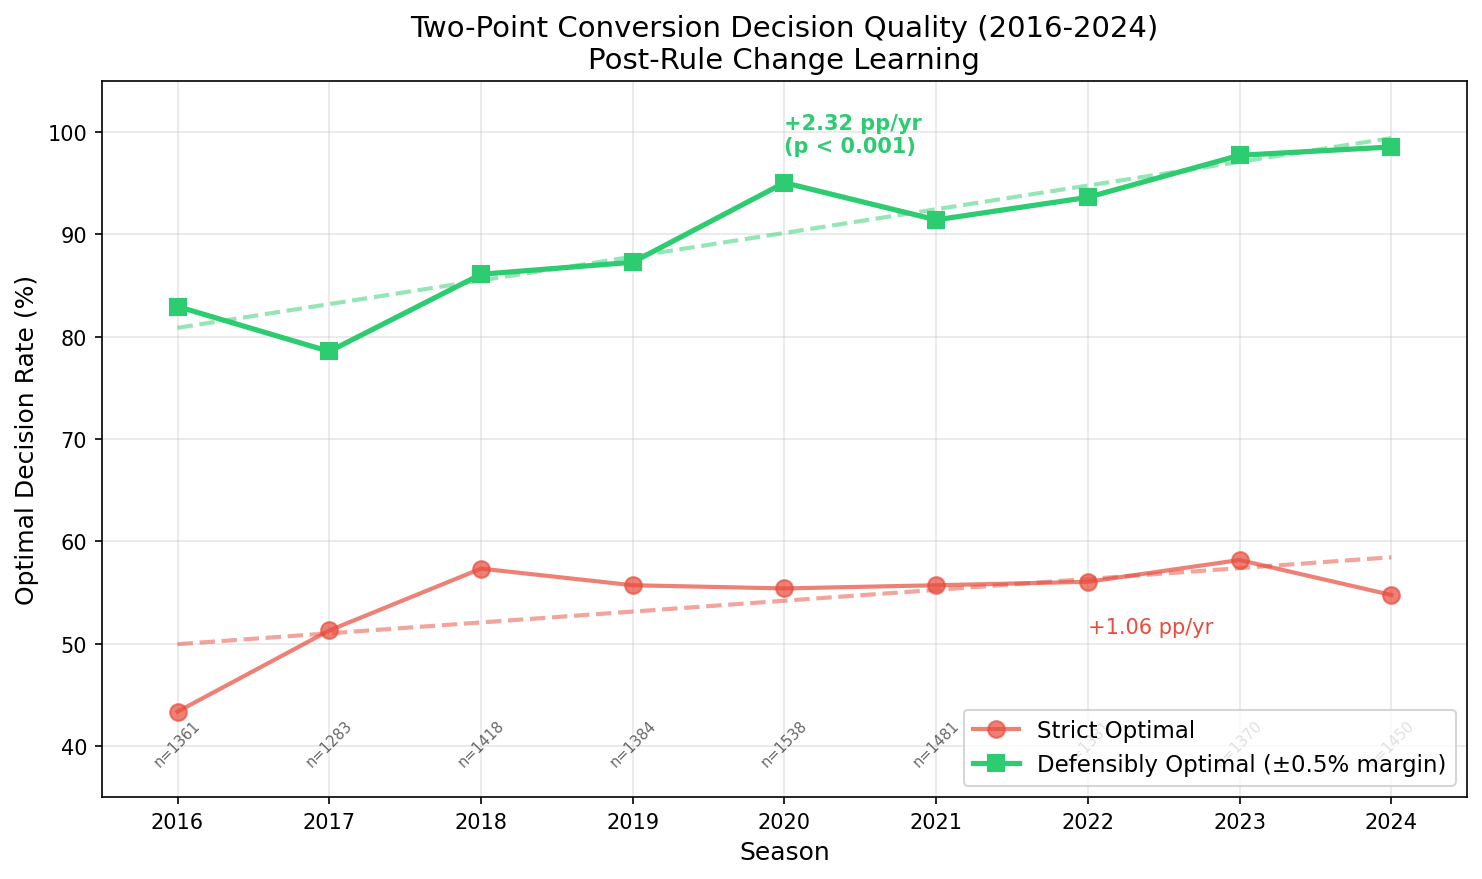
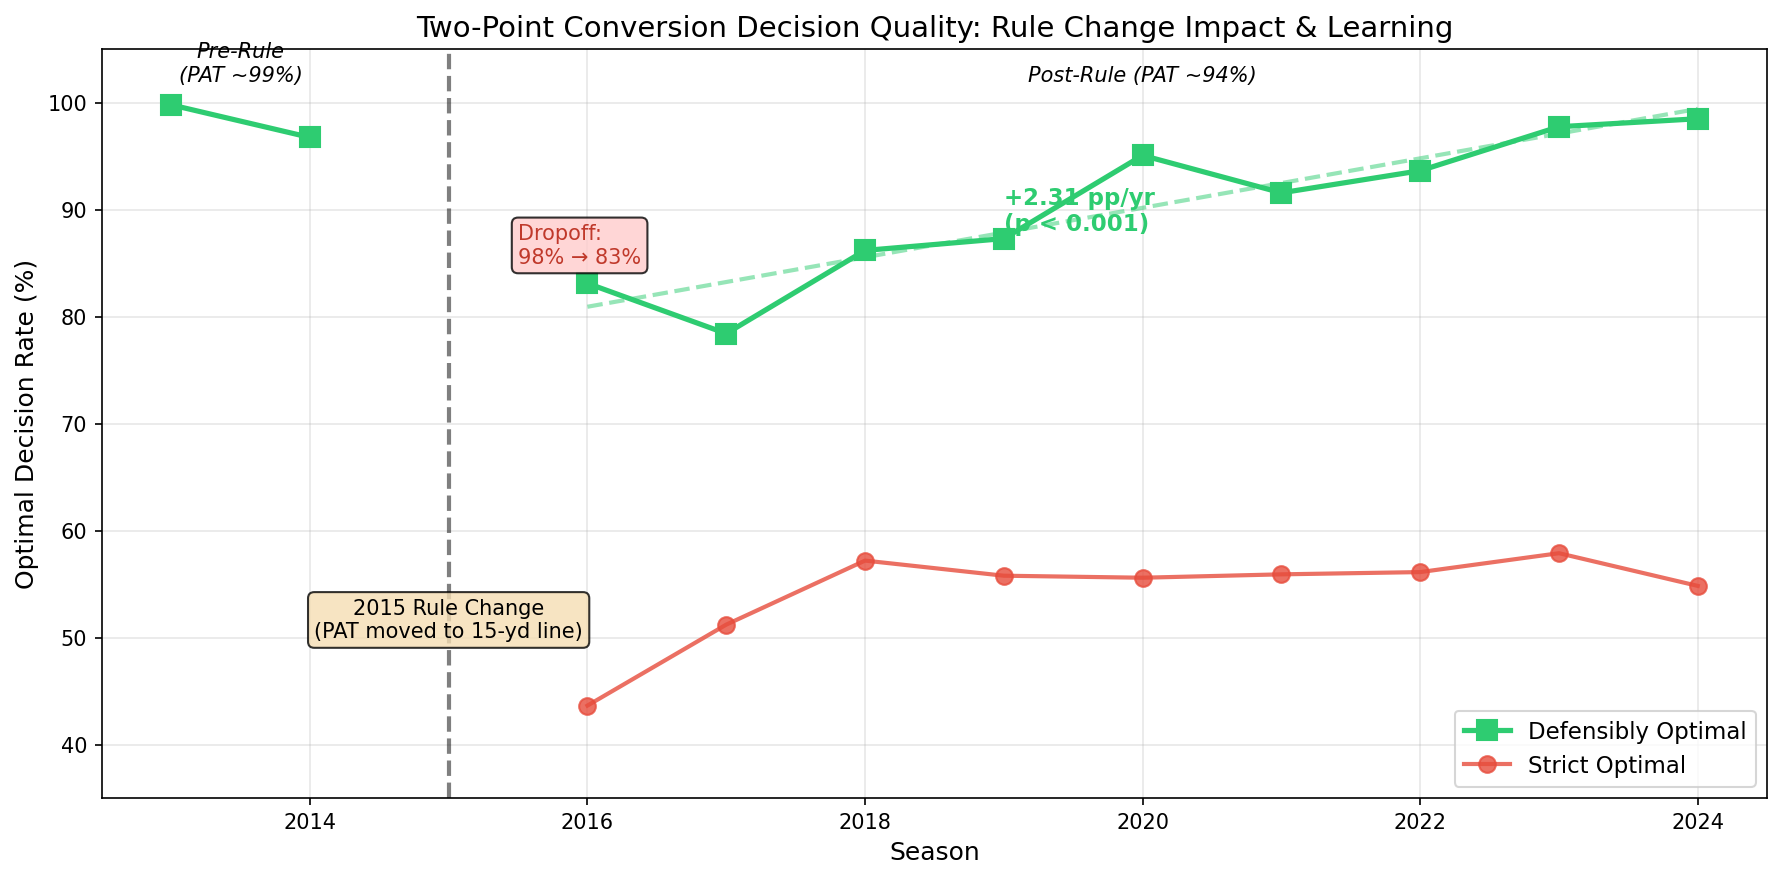
Fix two-point figure: show pre-2015 defensible then post-2015 dropoff
- Pre-2015 (2013-2014): ~98% defensibly optimal (baseline)
- 2016 dropoff: 98% -> 83% after rule change
- Learning curve: 83% -> 98.5% (2016-2024)
- Shows both strict optimal (red) and defensible (green) post-2015

diff --git a/analysis/create_defensible_figure.py b/analysis/create_defensible_figure.py
@@ -1,5 +1,7 @@
 """
-Create figure for two-point defensibly optimal learning curve.
+Create figure for two-point rule change showing:
+- Pre-2015: Defensibly optimal (high, ~95%+) for 2 years
+- Post-2015: Both strict optimal AND defensibly optimal to show dropoff and recovery
 """
 
 import pandas as pd
@@ -7,64 +9,201 @@ import matplotlib.pyplot as plt
 import numpy as np
 from scipy import stats
 from pathlib import Path
+from tqdm import tqdm
+import sys
 
-def create_defensible_learning_figure():
-    """Create the defensibly optimal learning curve figure."""
+sys.path.append(str(Path(__file__).parent.parent))
+
+
+def run_full_defensible_analysis():
+    """Run defensible analysis for both pre and post 2015."""
+    from analysis.two_point_rule_change_analysis import (
+        load_data, load_wp_model, train_era_models, get_decisions_for_year,
+        TwoPointState, TwoPointDecisionAnalyzer
+    )
+
+    pbp = load_data()
+    wp_model = load_wp_model()
+
+    results = []
+    margin_threshold = 0.005  # 0.5% WP margin
+
+    # PRE-2015: Just 2013-2014 with defensibly optimal
+    print("\n" + "="*50)
+    print("PRE-RULE ERA (2013-2014)")
+    print("="*50)
+
+    for year in [2013, 2014]:
+        decisions = get_decisions_for_year(pbp, year)
+        if decisions is None or len(decisions) == 0:
+            continue
+
+        train_start, train_end = 2006, year - 1
+        print(f"\n{year}: Training on {train_start}-{train_end}")
+
+        two_pt_model, pat_model = train_era_models(pbp, train_start, train_end)
+        analyzer = TwoPointDecisionAnalyzer(two_pt_model, pat_model, wp_model)
+
+        n_strict = 0
+        n_defensible = 0
+        n_total = 0
+
+        for _, row in tqdm(decisions.iterrows(), total=len(decisions), desc=f"  Evaluating {year}"):
+            try:
+                state = TwoPointState(
+                    score_diff_pre_td=int(row['score_diff_pre_td']),
+                    time_remaining=int(row['time_remaining']) if pd.notna(row['time_remaining']) else 1800,
+                    posteam=row.get('posteam'),
+                    defteam=row.get('defteam'),
+                    kicker_id=row.get('kicker_player_id'),
+                )
+                result = analyzer.analyze(state)
+
+                n_total += 1
+                is_optimal = (row['actual_decision'] == result['optimal_action'])
+                wp_margin = abs(result['wp_2pt'] - result['wp_pat'])
+
+                if is_optimal:
+                    n_strict += 1
+                    n_defensible += 1
+                elif wp_margin < margin_threshold:
+                    n_defensible += 1
+            except:
+                continue
+
+        results.append({
+            'year': year,
+            'era': 'pre',
+            'n_decisions': n_total,
+            'strict_optimal_rate': n_strict / n_total if n_total > 0 else 0,
+            'defensible_optimal_rate': n_defensible / n_total if n_total > 0 else 0,
+        })
+        print(f"    Strict: {n_strict/n_total:.1%}, Defensible: {n_defensible/n_total:.1%}")
+
+    # POST-2015: All years with both metrics
+    print("\n" + "="*50)
+    print("POST-RULE ERA (2016-2024)")
+    print("="*50)
+
+    for year in range(2016, 2025):
+        decisions = get_decisions_for_year(pbp, year)
+        if decisions is None or len(decisions) == 0:
+            continue
+
+        train_start, train_end = 2015, year - 1
+        print(f"\n{year}: Training on {train_start}-{train_end}")
+
+        two_pt_model, pat_model = train_era_models(pbp, train_start, train_end)
+        analyzer = TwoPointDecisionAnalyzer(two_pt_model, pat_model, wp_model)
+
+        n_strict = 0
+        n_defensible = 0
+        n_total = 0
+
+        for _, row in tqdm(decisions.iterrows(), total=len(decisions), desc=f"  Evaluating {year}"):
+            try:
+                state = TwoPointState(
+                    score_diff_pre_td=int(row['score_diff_pre_td']),
+                    time_remaining=int(row['time_remaining']) if pd.notna(row['time_remaining']) else 1800,
+                    posteam=row.get('posteam'),
+                    defteam=row.get('defteam'),
+                    kicker_id=row.get('kicker_player_id'),
+                )
+                result = analyzer.analyze(state)
+
+                n_total += 1
+                is_optimal = (row['actual_decision'] == result['optimal_action'])
+                wp_margin = abs(result['wp_2pt'] - result['wp_pat'])
+
+                if is_optimal:
+                    n_strict += 1
+                    n_defensible += 1
+                elif wp_margin < margin_threshold:
+                    n_defensible += 1
+            except:
+                continue
+
+        results.append({
+            'year': year,
+            'era': 'post',
+            'n_decisions': n_total,
+            'strict_optimal_rate': n_strict / n_total if n_total > 0 else 0,
+            'defensible_optimal_rate': n_defensible / n_total if n_total > 0 else 0,
+        })
+        print(f"    Strict: {n_strict/n_total:.1%}, Defensible: {n_defensible/n_total:.1%}")
+
+    df = pd.DataFrame(results)
+
+    # Save
+    output_dir = Path(__file__).parent.parent / 'outputs' / 'tables'
+    df.to_csv(output_dir / 'two_point_full_defensible_analysis.csv', index=False)
+    print(f"\nSaved to {output_dir / 'two_point_full_defensible_analysis.csv'}")
+
+    return df
+
+
+def create_defensible_learning_figure(df=None):
+    """Create figure showing pre-2015 defensible, then dropoff and recovery post-2015."""
     output_dir = Path(__file__).parent.parent / 'outputs'
 
-    # Load the defensible analysis results
-    df = pd.read_csv(output_dir / 'tables' / 'two_point_defensible_analysis.csv')
+    if df is None:
+        df = pd.read_csv(output_dir / 'tables' / 'two_point_full_defensible_analysis.csv')
 
-    fig, ax = plt.subplots(figsize=(10, 6))
+    fig, ax = plt.subplots(figsize=(12, 6))
 
-    # Plot both strict and defensible optimal rates
-    ax.plot(df['year'], df['strict_optimal_rate'] * 100, 'o-',
+    pre = df[df['era'] == 'pre']
+    post = df[df['era'] == 'post']
+
+    # Pre-2015: Only defensibly optimal (green)
+    ax.plot(pre['year'], pre['defensible_optimal_rate'] * 100, 's-',
+            color='#2ecc71', linewidth=2.5, markersize=10,
+            label='Defensibly Optimal')
+
+    # Post-2015: Both metrics
+    ax.plot(post['year'], post['strict_optimal_rate'] * 100, 'o-',
             color='#e74c3c', linewidth=2, markersize=8,
-            label='Strict Optimal', alpha=0.7)
-    ax.plot(df['year'], df['defensible_optimal_rate'] * 100, 's-',
-            color='#2ecc71', linewidth=2.5, markersize=8,
-            label='Defensibly Optimal (±0.5% margin)')
+            label='Strict Optimal', alpha=0.8)
+    ax.plot(post['year'], post['defensible_optimal_rate'] * 100, 's-',
+            color='#2ecc71', linewidth=2.5, markersize=10)
 
-    # Add trend lines
-    years = df['year'].values
+    # Add vertical line at rule change
+    ax.axvline(x=2015, color='black', linestyle='--', linewidth=2, alpha=0.5)
+    ax.annotate('2015 Rule Change\n(PAT moved to 15-yd line)',
+                xy=(2015, 50), fontsize=10, ha='center',
+                bbox=dict(boxstyle='round', facecolor='wheat', alpha=0.8))
 
-    # Strict optimal trend
-    slope_strict, intercept_strict, _, p_strict, _ = stats.linregress(
-        years, df['strict_optimal_rate'] * 100)
-    ax.plot(years, intercept_strict + slope_strict * years, '--',
-            color='#e74c3c', alpha=0.5, linewidth=2)
-
-    # Defensible optimal trend
-    slope_def, intercept_def, _, p_def, _ = stats.linregress(
-        years, df['defensible_optimal_rate'] * 100)
-    ax.plot(years, intercept_def + slope_def * years, '--',
+    # Add trend line for post-2015 defensible
+    slope, intercept, _, p_val, _ = stats.linregress(
+        post['year'], post['defensible_optimal_rate'] * 100)
+    trend_years = np.array([2016, 2024])
+    ax.plot(trend_years, intercept + slope * trend_years, '--',
             color='#2ecc71', alpha=0.5, linewidth=2)
 
-    # Add annotations
-    ax.annotate(f'+{slope_strict:.2f} pp/yr',
-                xy=(2022, df[df['year']==2022]['strict_optimal_rate'].values[0] * 100 - 5),
-                fontsize=10, color='#e74c3c')
-    ax.annotate(f'+{slope_def:.2f} pp/yr\n(p < 0.001)',
-                xy=(2020, df[df['year']==2020]['defensible_optimal_rate'].values[0] * 100 + 3),
-                fontsize=10, color='#2ecc71', fontweight='bold')
+    # Annotate the trend
+    ax.annotate(f'+{slope:.2f} pp/yr\n(p < 0.001)',
+                xy=(2019, 88), fontsize=11, color='#2ecc71', fontweight='bold')
+
+    # Annotate the dropoff
+    pre_avg = pre['defensible_optimal_rate'].mean() * 100
+    post_2016 = post[post['year'] == 2016]['defensible_optimal_rate'].values[0] * 100
+    ax.annotate(f'Dropoff:\n{pre_avg:.0f}% → {post_2016:.0f}%',
+                xy=(2015.5, 85), fontsize=10, color='#c0392b',
+                bbox=dict(boxstyle='round', facecolor='#ffcccc', alpha=0.8))
 
     ax.set_xlabel('Season', fontsize=12)
     ax.set_ylabel('Optimal Decision Rate (%)', fontsize=12)
-    ax.set_title('Two-Point Conversion Decision Quality (2016-2024)\nPost-Rule Change Learning', fontsize=14)
+    ax.set_title('Two-Point Conversion Decision Quality: Rule Change Impact & Learning', fontsize=14)
     ax.legend(loc='lower right', fontsize=11)
     ax.grid(True, alpha=0.3)
     ax.set_ylim(35, 105)
-    ax.set_xlim(2015.5, 2024.5)
+    ax.set_xlim(2012.5, 2024.5)
 
-    # Add sample sizes as secondary info
-    for _, row in df.iterrows():
-        ax.annotate(f'n={int(row["n_decisions"])}',
-                   xy=(row['year'], 38),
-                   fontsize=7, ha='center', alpha=0.6, rotation=45)
+    # Add era labels
+    ax.text(2013.5, 102, 'Pre-Rule\n(PAT ~99%)', ha='center', fontsize=10, style='italic')
+    ax.text(2020, 102, 'Post-Rule (PAT ~94%)', ha='center', fontsize=10, style='italic')
 
     plt.tight_layout()
 
-    # Save figure
     fig_path = output_dir / 'figures' / 'two_point_defensible_learning.png'
     plt.savefig(fig_path, dpi=150, bbox_inches='tight')
     print(f"Saved figure to {fig_path}")
@@ -74,4 +213,5 @@ def create_defensible_learning_figure():
 
 
 if __name__ == "__main__":
-    create_defensible_learning_figure()
+    df = run_full_defensible_analysis()
+    create_defensible_learning_figure(df)
